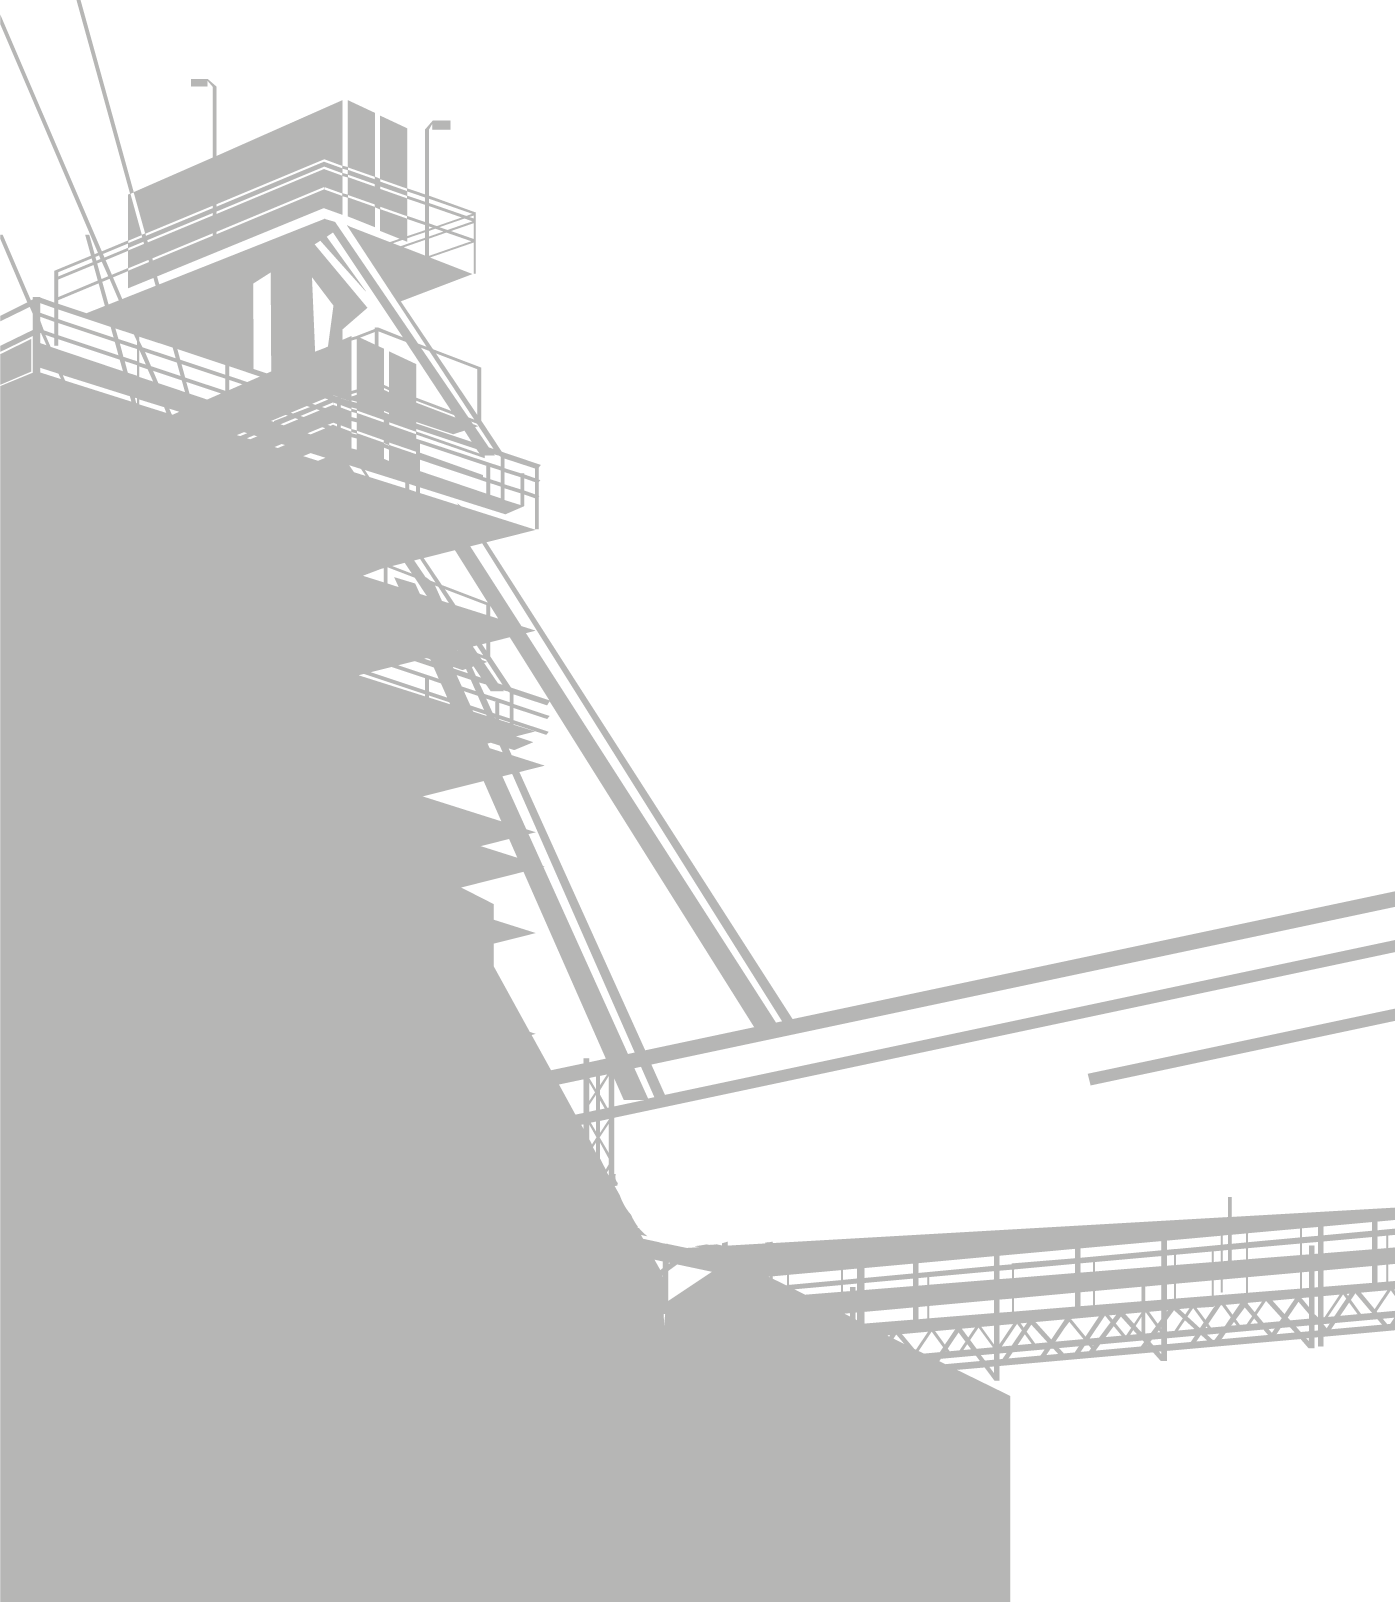
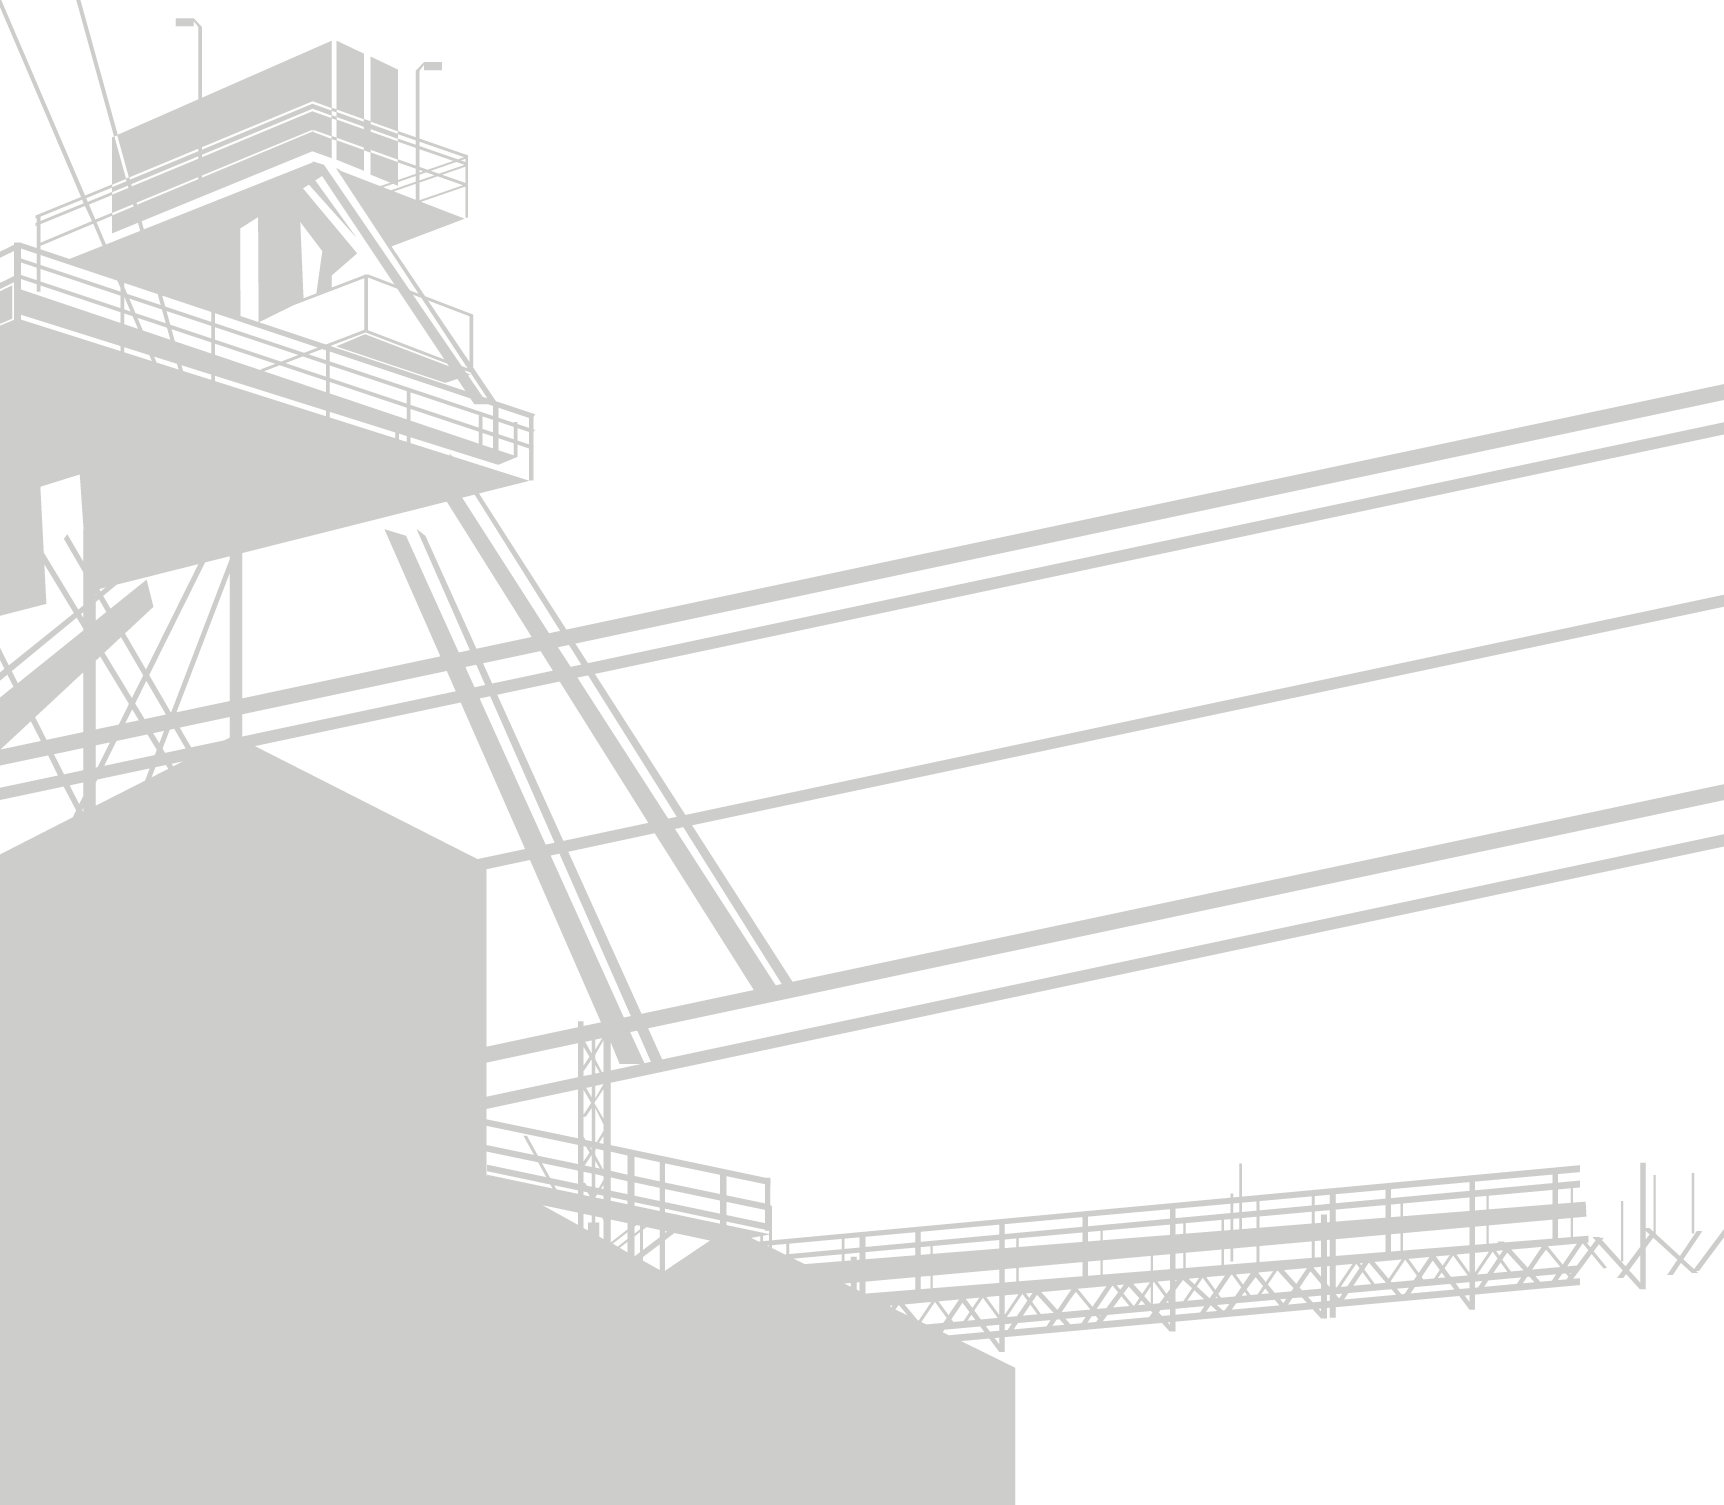
bg + icono
css

diff --git a/index.html b/index.html
@@ -133,7 +133,7 @@
         <section id="banner">
             <div class="block has-dark-background background-color-default-darker center text-banner fibredark">
                 <div class="container">
-                    <h1 class="no-bottom-margin no-border">Zoner Is Fully Loaded Real Estate Template with <a href="#" class="text-underline">Tons of Features</a>!</h1>
+                    <h1 class="no-bottom-margin no-border ">INOX · ALUMINIO · ACERO · MONTAJE</h1>
                 </div>
             </div>
         </section><!-- /#banner -->
@@ -591,9 +591,10 @@
                     <blockquote class="testimonial">
                         <figure>
                             <div class="image">
-                                <img alt="" src="assets/img/client-01.png">
+                                <img alt="" src="assets/img/client-01.png" >
                             </div>
                         </figure>
+
                         <aside class="cite">
                             <p>Fusce risus metus, placerat in consectetur eu, porttitor a est sed sed dolor lorem cras adipiscing</p>
                             <footer>Natalie Jenkins</footer>
@@ -644,15 +645,15 @@
 
     <!-- end Navigation -->
     <!-- Page Content -->
-    <div id="page-content " class="colorea">
+    <div id="page-content " class=" colorea">
         <!-- Breadcrumb -->
         
         <!-- end Breadcrumb -->
 
-        <section  id="banner">
-            <div class="block has-dark-background background-color-default-darker center text-banner fibredark">
+        <section  id="banner" class="">
+            <div class=" block has-dark-background background-color-default-darker center text-banner fibredark">
                 <div class="container">
-                    <img src="assets/img/bag.png" width="30%">
+                    <img src="assets/img/icono.png" width="20%">
                     <h1 class="no-bottom-margin no-border">Zoner Is Fully Loaded Real Estate Template with <a href="#" class="text-underline">Tons of Features</a>!</h1>
                 </div>
             </div>

diff --git a/assets/css/style.css b/assets/css/style.css
@@ -42,7 +42,7 @@ Headers:		'Roboto', sans-serif;
 
 .nueva{
  background-image: url("../img/bag.png") !important;
- background-position: right bottom, left top !important;
+ background-position: left bottom, left top !important;
     background-repeat: no-repeat !important;
 
 }
@@ -186,6 +186,7 @@ h1 {
   margin-bottom: 30px;
   margin-top: 10px;
   padding-bottom: 15px;
+  color: #D26F2C;
 }
 
 h2 {
@@ -3869,6 +3870,10 @@ ul.list-links li a:hover {
 
 .leaflet-container {
   font: inherit;
+}
+
+.container{
+
 }
 
 .leaflet-popup .leaflet-popup-close-button {
